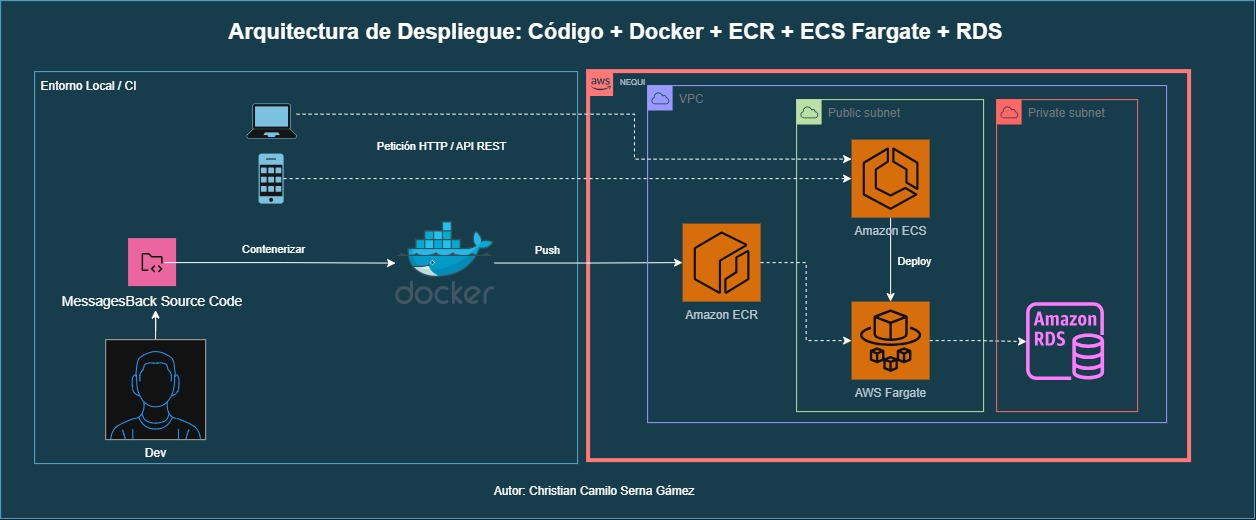
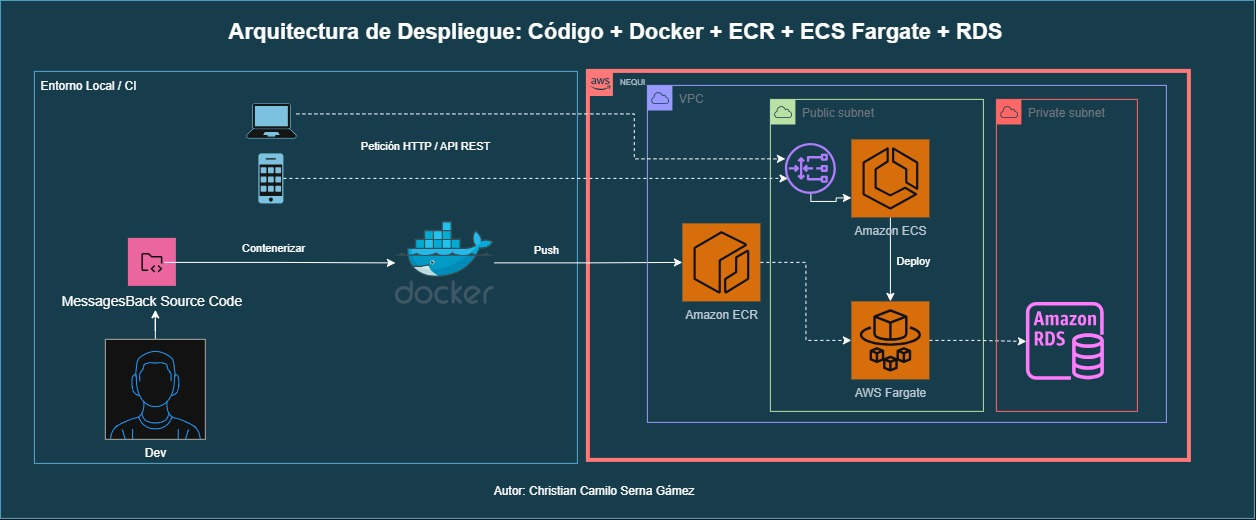
Se adiciona propuesta de IaC y pyproject.toml para ver la covertura de los test

diff --git a/infra/infrastructure_stack.py b/infra/infrastructure_stack.py
@@ -1,0 +1,131 @@
+"""Stack de AWS CDK v2 (Python): red (VPC), registro de contenedor (ECR),
+base de datos RDS PostgreSQL, clúster de ECS y servicio Fargate detrás de un
+Application Load Balancer.
+
+Esta propuesta provisiona el RDS que ese
+camino necesita.
+"""
+from aws_cdk import CfnOutput, RemovalPolicy, Stack
+from aws_cdk import aws_ec2 as ec2
+from aws_cdk import aws_ecr as ecr
+from aws_cdk import aws_ecs as ecs
+from aws_cdk import aws_ecs_patterns as ecs_patterns
+from aws_cdk import aws_rds as rds
+from constructs import Construct
+
+DATABASE_NAME = "mensajesnequi"
+
+
+class ChatApiInfrastructureStack(Stack):
+    def __init__(self, scope: Construct, construct_id: str, **kwargs) -> None:
+        super().__init__(scope, construct_id, **kwargs)
+
+        # 1. Red (VPC) con tres grupos de subredes: públicas (para el ALB),
+        #    privadas con salida a internet (para que las tareas de Fargate
+        #    puedan tirar de ECR) y aisladas sin salida a internet (para
+        #    RDS — la base de datos no necesita, ni debería tener, acceso
+        #    saliente a internet).
+        vpc = ec2.Vpc(
+            self,
+            "ChatApiVpc",
+            max_azs=2,
+            subnet_configuration=[
+                ec2.SubnetConfiguration(name="Public", subnet_type=ec2.SubnetType.PUBLIC, cidr_mask=24),
+                ec2.SubnetConfiguration(
+                    name="Private", subnet_type=ec2.SubnetType.PRIVATE_WITH_EGRESS, cidr_mask=24
+                ),
+                ec2.SubnetConfiguration(
+                    name="Isolated", subnet_type=ec2.SubnetType.PRIVATE_ISOLATED, cidr_mask=24
+                ),
+            ],
+        )
+
+        # 2. Repositorio ECR para la imagen Docker de FastAPI. La imagen se
+        #    construye y se sube por fuera de este stack (ver README.md,
+        #    sección "Cómo se usaría") — CDK no compila el Dockerfile en
+        #    este flujo, solo referencia el repositorio.
+        ecr_repo = ecr.Repository(
+            self,
+            "ChatApiEcrRepo",
+            repository_name="nequi-chat-api",
+            image_scan_on_push=True,
+        )
+
+        # 3. Clúster de ECS.
+        cluster = ecs.Cluster(self, "ChatApiCluster", vpc=vpc)
+
+        # 3.5. Base de datos: RDS PostgreSQL en subredes aisladas (sin
+        #      salida a internet), con credenciales generadas y guardadas en
+        #      Secrets Manager — nunca en texto plano en el código ni en la
+        #      definición de la tarea.
+        database = rds.DatabaseInstance(
+            self,
+            "ChatApiDatabase",
+            engine=rds.DatabaseInstanceEngine.postgres(version=rds.PostgresEngineVersion.VER_16_4),
+            vpc=vpc,
+            vpc_subnets=ec2.SubnetSelection(subnet_type=ec2.SubnetType.PRIVATE_ISOLATED),
+            instance_type=ec2.InstanceType.of(ec2.InstanceClass.BURSTABLE3, ec2.InstanceSize.MICRO),
+            allocated_storage=20,
+            credentials=rds.Credentials.from_generated_secret(DATABASE_NAME),
+            database_name=DATABASE_NAME,
+            storage_encrypted=True,
+            # SNAPSHOT (no DESTROY): si alguien destruye el stack por error,
+            # RDS toma un snapshot final en vez de borrar los datos.
+            removal_policy=RemovalPolicy.SNAPSHOT,
+            deletion_protection=False,  # en un ambiente productivo real: True
+        )
+
+        # 4. Servicio Fargate con Application Load Balancer.
+        #    Nota sobre `DATABASE_URL`: la app espera una sola variable de
+        #    entorno con el string de conexión completo
+        #    (`postgresql+psycopg://usuario:password@host:puerto/nombre`).
+        fargate_service = ecs_patterns.ApplicationLoadBalancedFargateService(
+            self,
+            "ChatApiFargateService",
+            cluster=cluster,
+            cpu=256,
+            memory_limit_mib=512,
+            desired_count=1,
+            public_load_balancer=True,
+            task_image_options=ecs_patterns.ApplicationLoadBalancedTaskImageOptions(
+                image=ecs.ContainerImage.from_ecr_repository(ecr_repo),
+                container_port=8000,  # puerto expuesto por FastAPI (ver Dockerfile)
+                environment={
+                    "DB_HOST": database.db_instance_endpoint_address,
+                    "DB_PORT": database.db_instance_endpoint_port,
+                    "DB_NAME": DATABASE_NAME,
+                },
+                secrets={
+                    "DB_USERNAME": ecs.Secret.from_secrets_manager(database.secret, field="username"),
+                    "DB_PASSWORD": ecs.Secret.from_secrets_manager(database.secret, field="password"),
+                },
+            ),
+        )
+
+        # Abre el puerto 5432 desde el security group de las tareas de
+        # Fargate hacia el de la base de datos — sin esto, la conexión a RDS
+        # se queda colgada por firewall, no por credenciales.
+        database.connections.allow_default_port_from(fargate_service.service)
+
+        fargate_service.target_group.configure_health_check(path="/health")
+
+
+        # 6. Salidas.
+        CfnOutput(
+            self,
+            "ApiLoadBalancerUrl",
+            value=fargate_service.load_balancer.load_balancer_dns_name,
+            description="URL pública para consumir la API de chat",
+        )
+        CfnOutput(
+            self,
+            "DatabaseEndpoint",
+            value=database.db_instance_endpoint_address,
+            description="Host de la base de datos RDS (para construir DATABASE_URL manualmente si hace falta)",
+        )
+        CfnOutput(
+            self,
+            "DatabaseSecretArn",
+            value=database.secret.secret_arn,
+            description="ARN del secreto en Secrets Manager con las credenciales generadas de RDS",
+        )

diff --git a/infra/app.py b/infra/app.py
@@ -1,0 +1,15 @@
+#!/usr/bin/env python3
+"""Punto de entrada de la app CDK. propuesta ilustrativa, no un
+despliegue verificado contra una cuenta AWS real."""
+import aws_cdk as cdk
+
+from infrastructure_stack import ChatApiInfrastructureStack
+
+app = cdk.App()
+ChatApiInfrastructureStack(
+    app,
+    "ChatApiInfrastructureStack",
+    env=cdk.Environment(region="us-east-1"),
+)
+
+app.synth()

diff --git a/infra/README.md b/infra/README.md
@@ -1,0 +1,96 @@
+# Propuesta de infraestructura en AWS (ECR + ECS Fargate + RDS)
+
+> **Estado:** propuesta validada con `cdk synth` (sintetiza sin errores ni
+> advertencias — 50 recursos de CloudFormation), pero **no desplegada**
+> contra una cuenta AWS real.
+
+
+La propuesta es: construir la imagen (ya existe el `Dockerfile`),
+subirla a **ECR**, y correrla en **ECS Fargate** detrás de un **Application
+Load Balancer** — el mismo contenedor, sin cambiar una línea de código de la
+app, corriendo de forma administrada.
+
+
+## Diagrama
+
+```
+Internet
+  │
+  ▼
+Application Load Balancer (subred pública)
+  │  HTTP + upgrade a WebSocket, mismo listener
+  ▼
+ECS Fargate — 1 tarea (subred privada con salida a internet, vía NAT, para poder
+  │            tirar de ECR)
+  │  DB_HOST / DB_PORT / DB_NAME (env vars) +
+  │  DB_USERNAME / DB_PASSWORD (secrets de Secrets Manager, resueltos en runtime)
+  ▼
+RDS PostgreSQL (subred aislada, sin salida a internet)
+```
+
+La imagen del contenedor se construye y se sube a **ECR** por fuera de este
+stack — CDK no compila el `Dockerfile` en este
+flujo, solo referencia el repositorio (`ecs.ContainerImage.from_ecr_repository`).
+
+## Archivos
+
+- `app.py` — punto de entrada de la app CDK.
+- `infrastructure_stack.py` — el stack: VPC (3 grupos de subredes), ECR, RDS
+  PostgreSQL, clúster de ECS, servicio Fargate + ALB.
+- `requirements.txt` — dependencias del CDK (separadas de las del backend).
+- `cdk.json` — configuración estándar de la CLI de CDK.
+
+## Cómo se usaría (si se decidiera desplegar)
+
+```bash
+cd infra
+python -m venv .venv && source .venv/Scripts/activate
+pip install -r requirements.txt
+
+cdk bootstrap   # una sola vez por cuenta/región
+cdk deploy      # crea el ECR, la VPC, RDS, ECS/Fargate y el ALB
+
+# Después del primer deploy, construir y subir la imagen al ECR creado:
+aws ecr get-login-password --region us-east-1 | \
+  docker login --username AWS --password-stdin <ID_DE_CUENTA>.dkr.ecr.us-east-1.amazonaws.com
+
+docker build -t nequi-chat-api ..
+docker tag nequi-chat-api:latest <ID_DE_CUENTA>.dkr.ecr.us-east-1.amazonaws.com/nequi-chat-api:latest
+docker push <ID_DE_CUENTA>.dkr.ecr.us-east-1.amazonaws.com/nequi-chat-api:latest
+
+# ECS no vuelve a tirar de la imagen nueva solo: forzar un nuevo despliegue.
+aws ecs update-service --cluster <nombre-del-cluster> --service <nombre-del-servicio> --force-new-deployment
+```
+
+`cdk deploy` imprime al final la URL del load balancer
+(`ApiLoadBalancerUrl`), el host de la base de datos (`DatabaseEndpoint`) y el
+ARN del secreto con las credenciales (`DatabaseSecretArn`).
+
+## Alcance y limitaciones (léase antes de tomar esto como "listo para producción")
+
+1. **`DATABASE_URL` no se compone automáticamente.** La app espera una sola
+   variable de entorno con el string de conexión completo
+   (`postgresql+psycopg://usuario:password@host:puerto/nombre`). Componer
+   ese string de forma segura —sin exponer la contraseña en texto plano en
+   la definición de tarea— requeriría un recurso custom de CDK, fuera del
+   alcance de esta propuesta ilustrativa. Por eso el stack pasa las piezas
+   por separado (`DB_HOST`, `DB_PORT`, `DB_NAME` como variables normales;
+   `DB_USERNAME`/`DB_PASSWORD` como *secrets* de ECS). **Antes de un
+   despliegue real** hace falta un ajuste chico en `app/core/config.py`:
+   que `Settings` arme `database_url` a partir de esas piezas si
+   `DATABASE_URL` no viene definido directamente — no está hecho en este
+   repositorio.
+2. **No incluye `API_KEY`** (autenticación de la app) como variable de
+   entorno ni como secreto — se dejó fuera para mantener la propuesta
+   enfocada en cómputo + base de datos; agregarla es una línea más de
+   `environment`/`secrets` en `task_image_options`.
+3. **No incluye pipeline de CI/CD** (build + push de la imagen a ECR en cada
+   commit) — el paso de `docker build`/`push` de "Cómo se usaría" es manual;
+   automatizarlo (CodePipeline, GitHub Actions, etc.) queda fuera del
+   alcance de esta propuesta.
+4. **Validado con `cdk synth`, no con `cdk deploy`.** El stack sintetiza sin
+   errores ni advertencias de seguridad (50 recursos de CloudFormation:
+   VPC completa, ECR, RDS, ECS/Fargate, ALB, IAM, Secrets Manager) — eso
+   confirma que el código Python es correcto y que las referencias entre
+   construcciones (VPC → RDS → ECS → ALB) están bien resueltas, pero no
+   reemplaza probarlo contra una cuenta AWS real.
